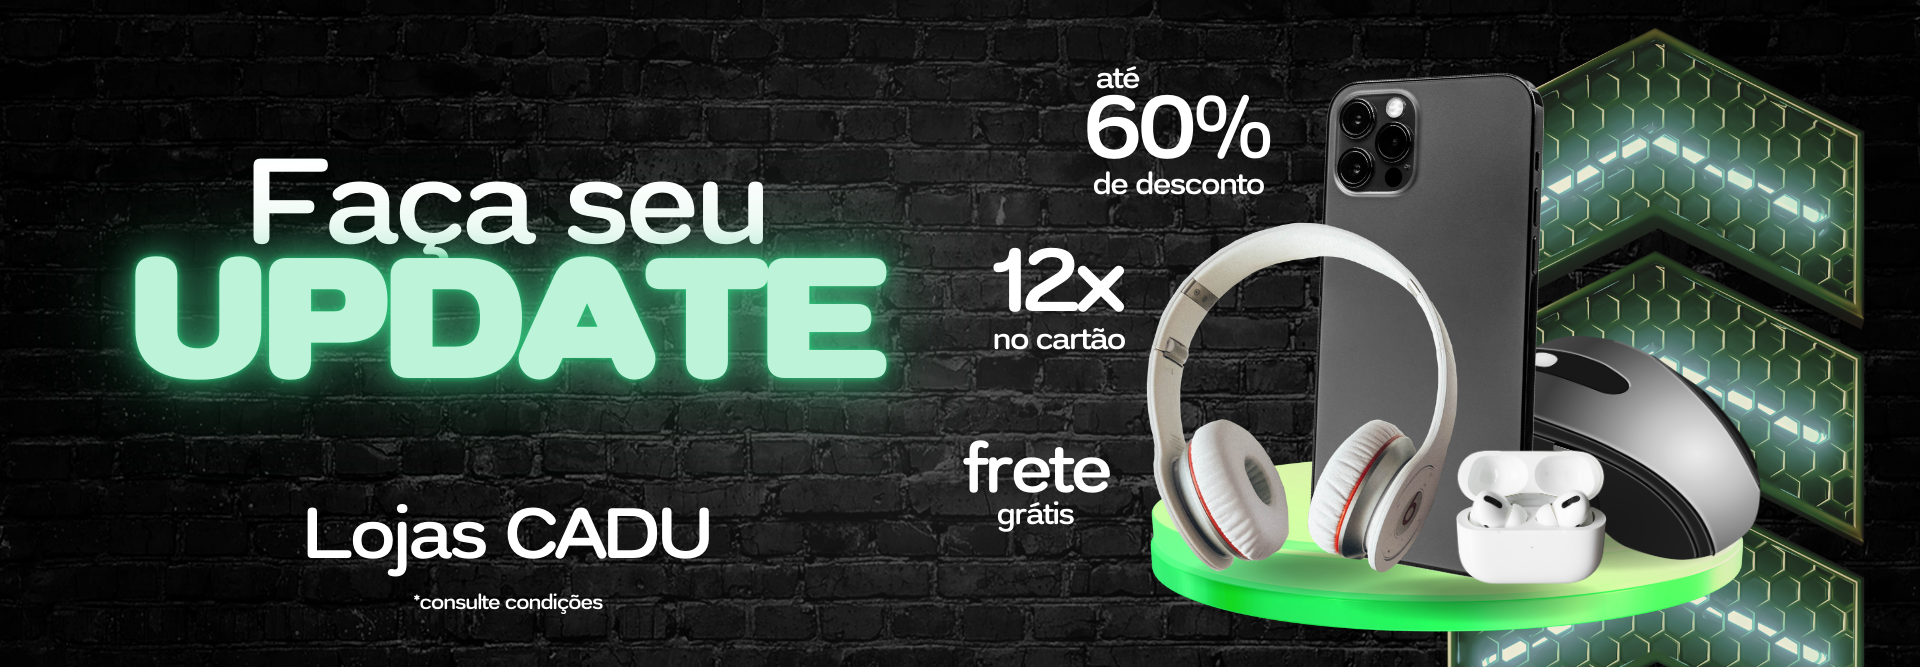
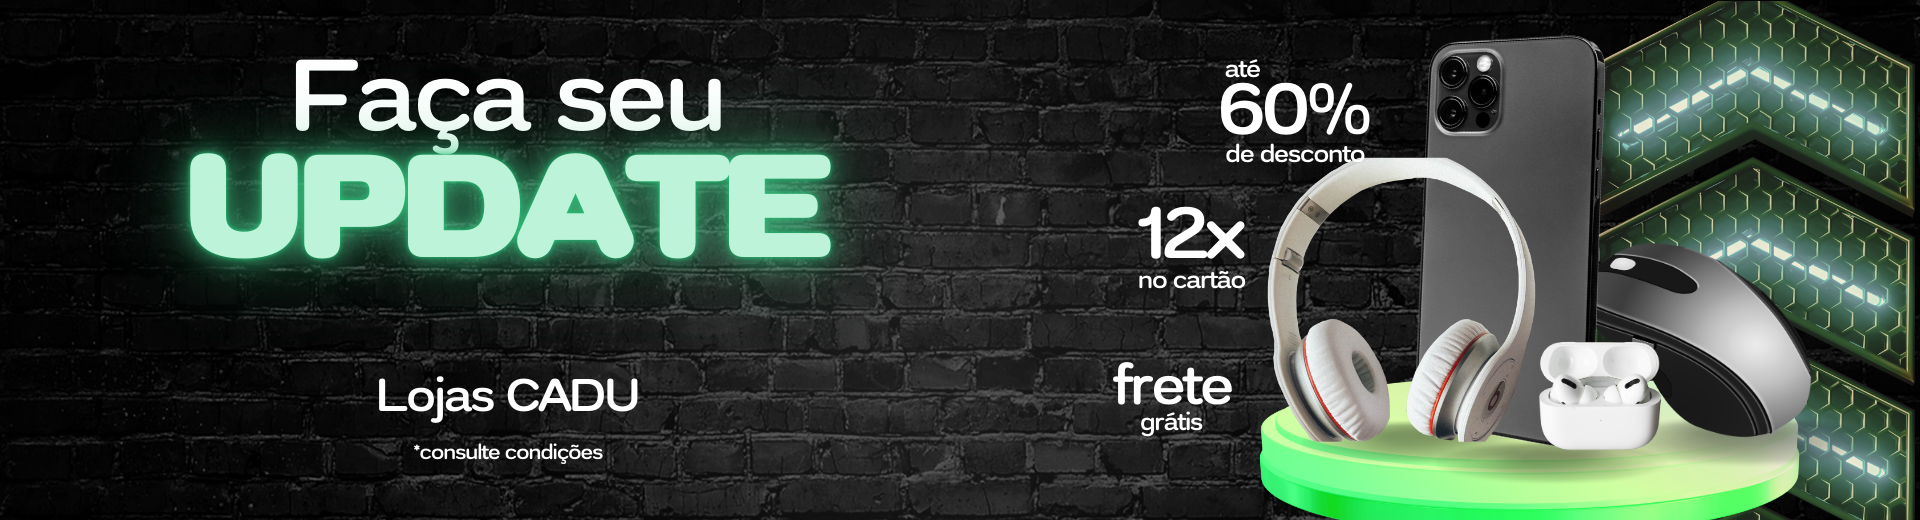
Ajustando página home

diff --git a/src/pages/home/Home.tsx b/src/pages/home/Home.tsx
@@ -1,8 +1,13 @@
 import "./Home.css";
-import Construcao from "../../assets/imagens/construcao.png";
 import { Link } from "react-router-dom";
-import { A11y, Autoplay, Navigation, Pagination, Scrollbar } from "swiper/modules";
-
+import {
+  A11y,
+  Autoplay,
+  Navigation,
+  Pagination,
+  Scrollbar,
+} from "swiper/modules";
+import Banner from "../../assets/imagens/banner.png";
 import "swiper/css";
 import "swiper/css/navigation";
 import "swiper/css/pagination";
@@ -14,25 +19,23 @@ function Home() {
   return (
     <>
       <div>
-        <div className="flex justify-center fundoHome">
-          <div className="container grid grid-cols-2 items-center justify-center">
-            <div className="flex-col gap-4  py-4">
-              <div className="flex justify-around gap-6">
-                <Link
-                  to="/produtos"
-                  className="rounded-2xl bg-white text-[#19191a] text-xl hover:bg-[#53c38d] font-bold py-3 px-6"
-                  style={{ marginTop: "250px", marginRight: "250px" }}>
-                  {" "}
-                  <button>VER PRODUTOS</button>
-                </Link>
-              </div>
-            </div>
+        <div className="relative flex justify-center">
+          <img src={Banner} alt="" />
+        </div>
+
+        <div className="absolute inset-0 flex items-center mb-20">
+          <div className="flex-col gap-4">
+            <Link
+              to="/produtos"
+              className="rounded-2xl bg-white text-[#19191a] text-xl hover:bg-[#53c38d] font-bold py-3 px-6"
+              style={{ marginTop: "100px", marginLeft: "410px" }}>
+              <button>VER PRODUTOS</button>
+            </Link>
           </div>
         </div>
 
-
         <div className="color-fundo py-6">
-        <Swiper
+          <Swiper
             modules={[Navigation, Pagination, Scrollbar, A11y, Autoplay]}
             spaceBetween={50}
             slidesPerView={4}
@@ -42,7 +45,6 @@ function Home() {
             onSlideChange={() => console.log("slide change")}
             autoplay={{ delay: 4000 }} // 3000 ms = 3 segundos
             loop={true} // Ativa o loop dos slides
-            
           >
             <SwiperSlide>
               <div className="flex bg-gray-200 p-10 rounded shadow-md gap-4 items-center flex-col container mx-auto md:w-96">
@@ -133,12 +135,9 @@ function Home() {
             </SwiperSlide>
           </Swiper>
         </div>
-       
 
         <div className="color-fundo">
-          <div>
-          teste 
-          </div>
+          <div>teste</div>
         </div>
       </div>
     </>

diff --git a/src/pages/home/Home.css b/src/pages/home/Home.css
@@ -13,7 +13,7 @@
     background-image: url(../../assets/imagens/banner.png);
     background-repeat: no-repeat;
     width: 100%;
-    height: min-content;
+    height: 100%;
     min-height: 80vh;
     background-size: cover;
     background-position:center;

diff --git a/src/models/Produto.ts b/src/models/Produto.ts
@@ -5,4 +5,5 @@ export default interface Produto {
     nome: string;
     preco: number;
     quantidade: number;
+    categoria: Categoria | Null;
 }
